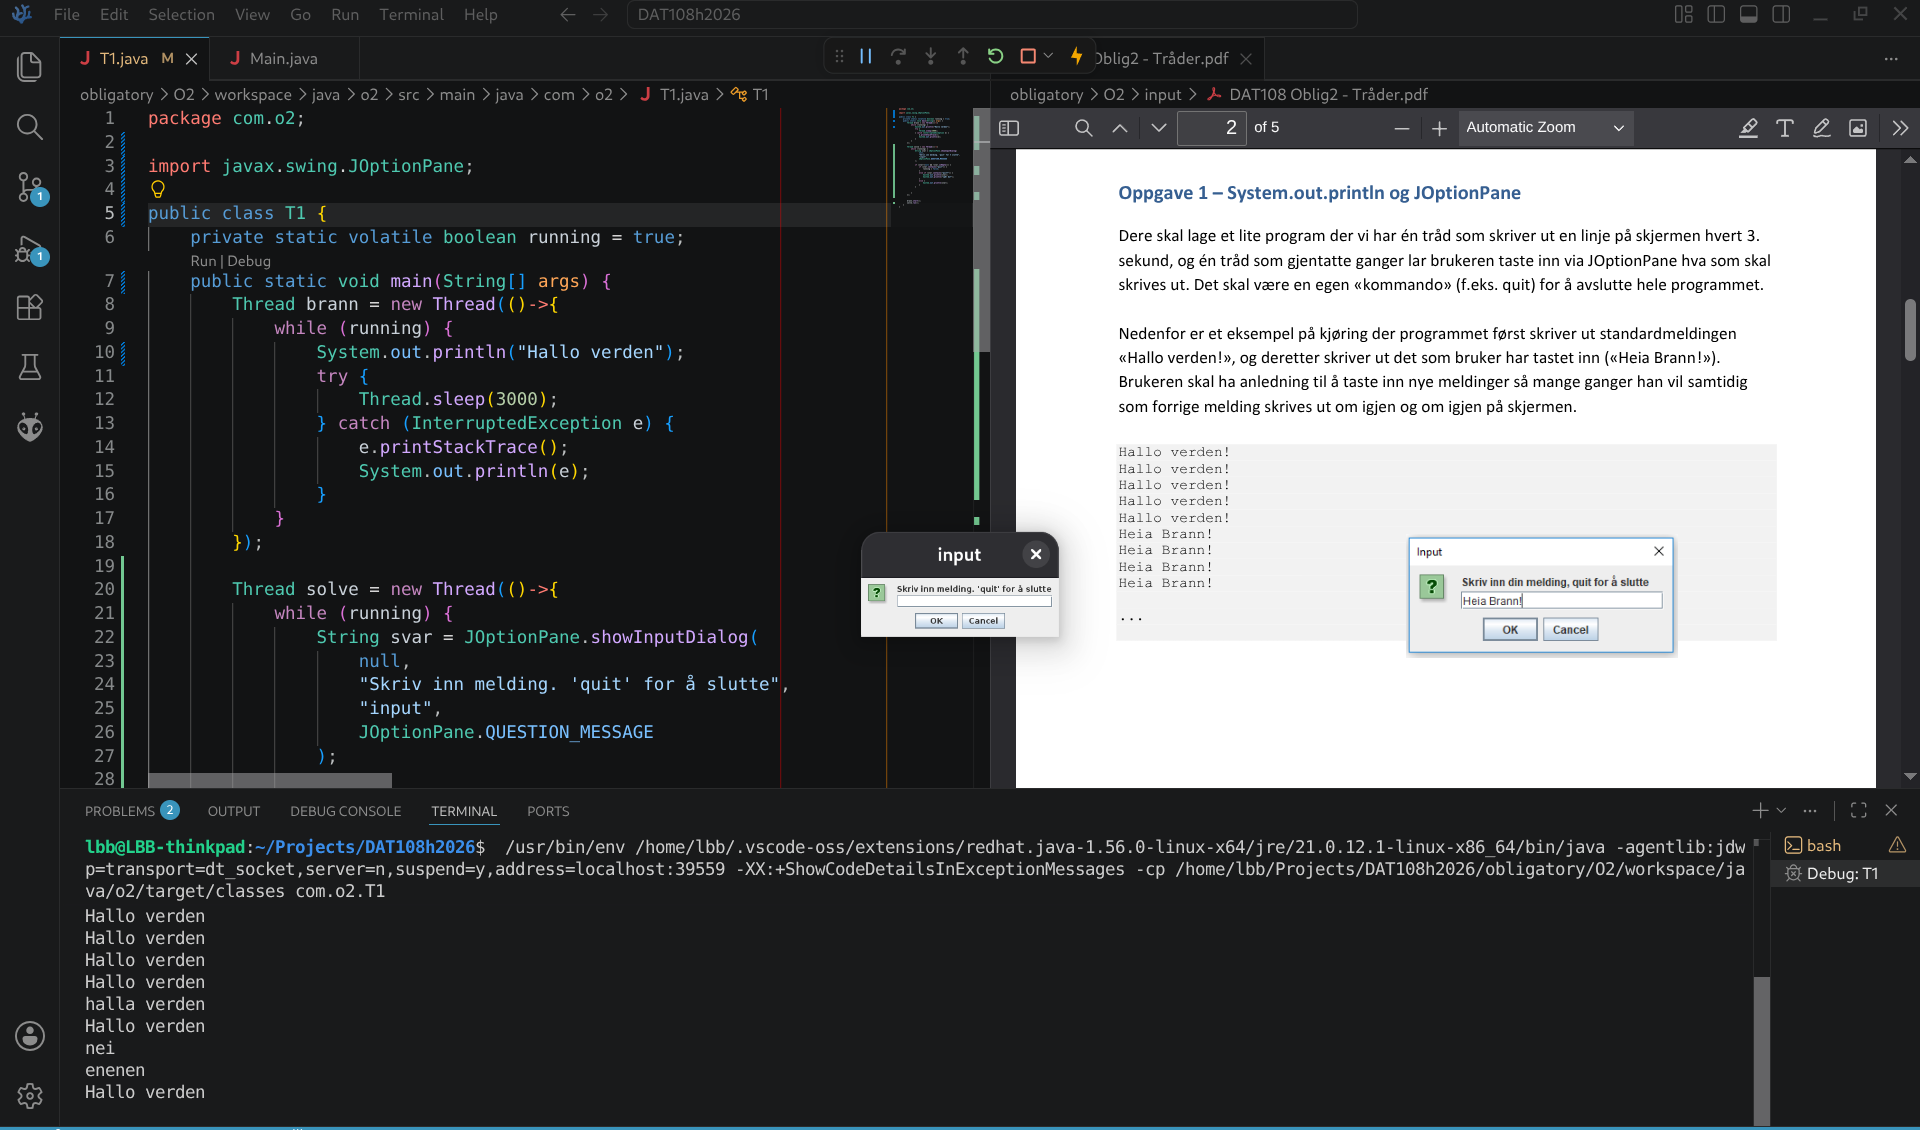
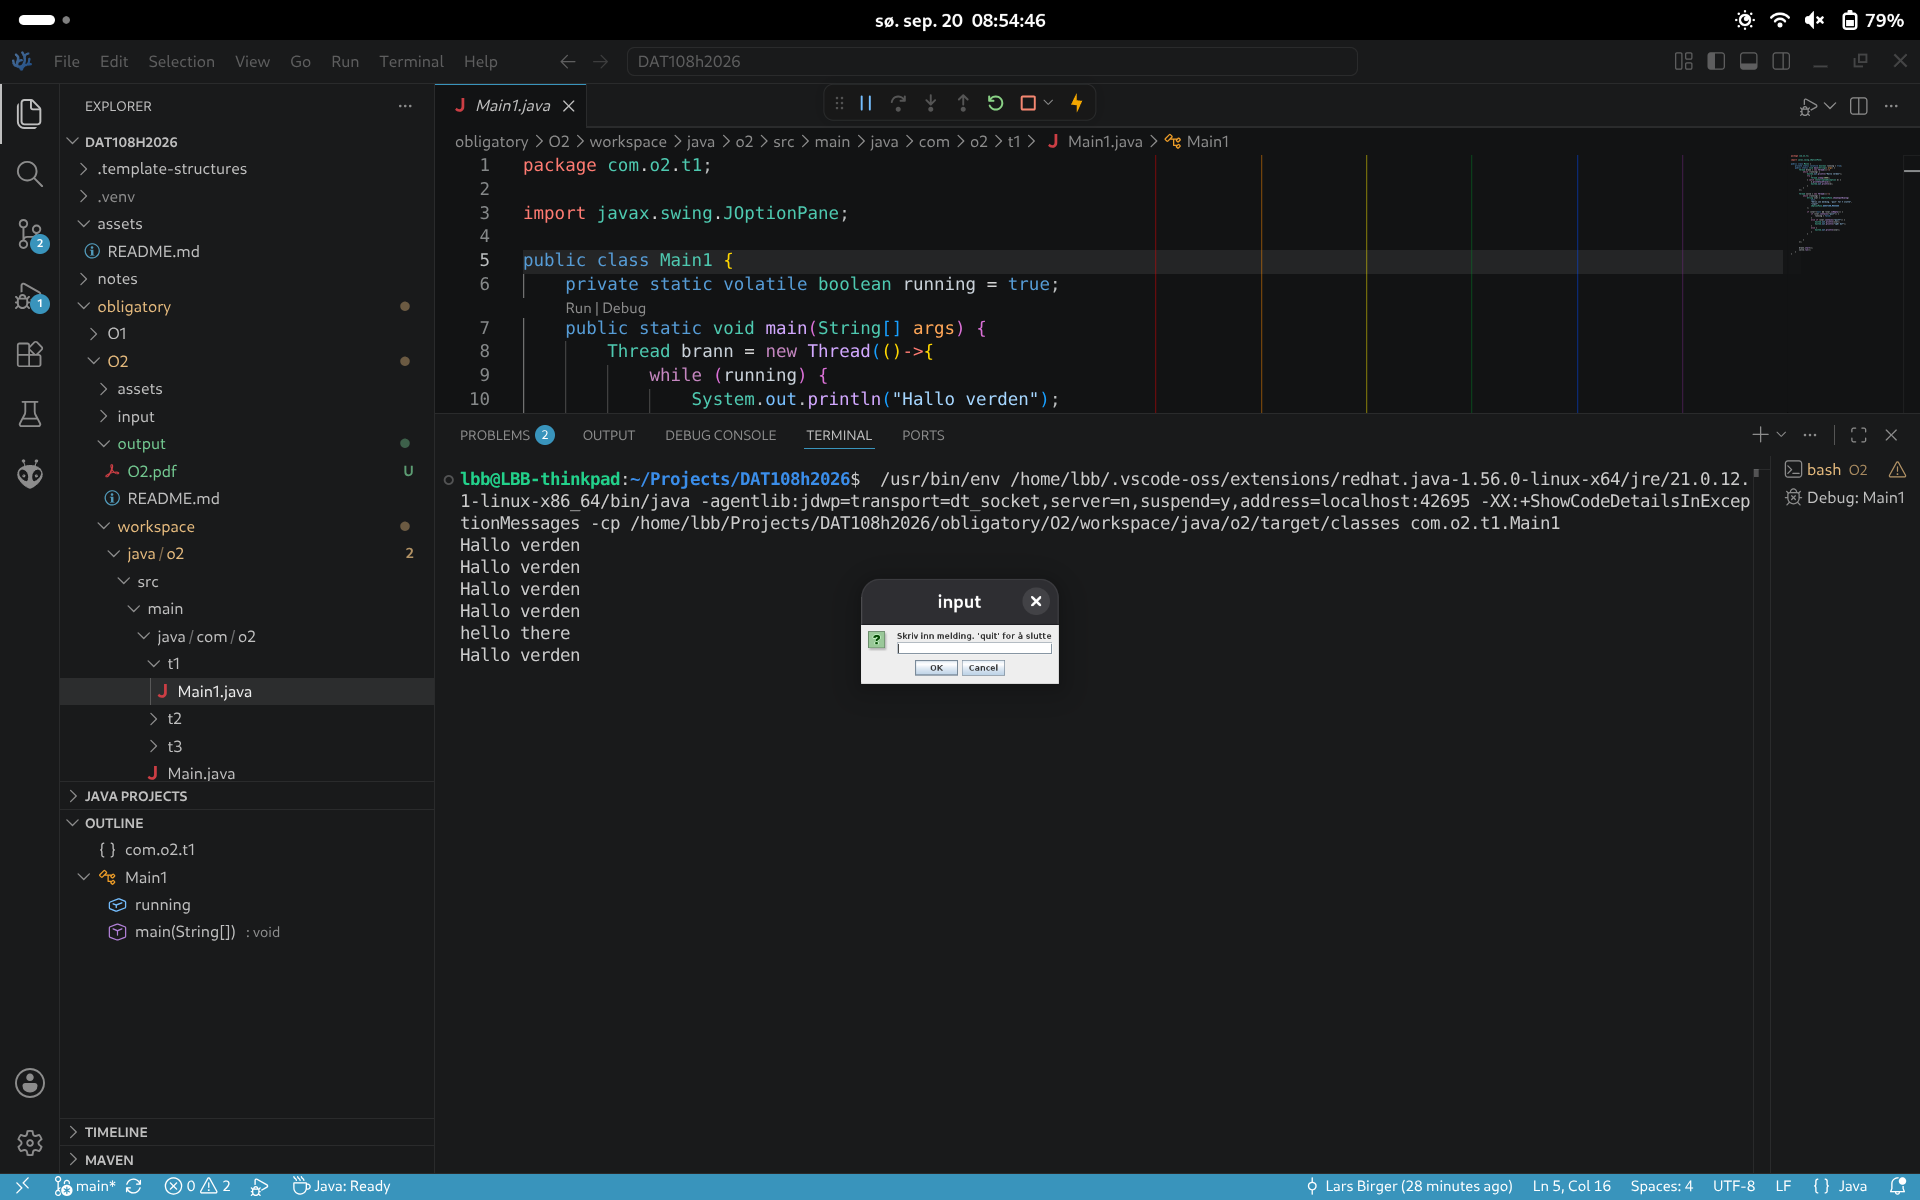
updated image for task 1

diff --git a/obligatory/O2/workspace/O2.md b/obligatory/O2/workspace/O2.md
@@ -9,15 +9,15 @@
 
 ### 2.1
 
-![alt text](../assets/O2T1.png)
+![oppgave 1](../assets/O2T1.png)
 
 ### 2.2
 
-![alt text](../assets/O2T2.png)
+![oppgave 2](../assets/O2T2.png)
 
 ### 2.3
 
-![alt text](../assets/O2T3.png)
+![oppgave 3](../assets/O2T3.png)
 
 ## eventuelle svar på teorispørsmål
 
